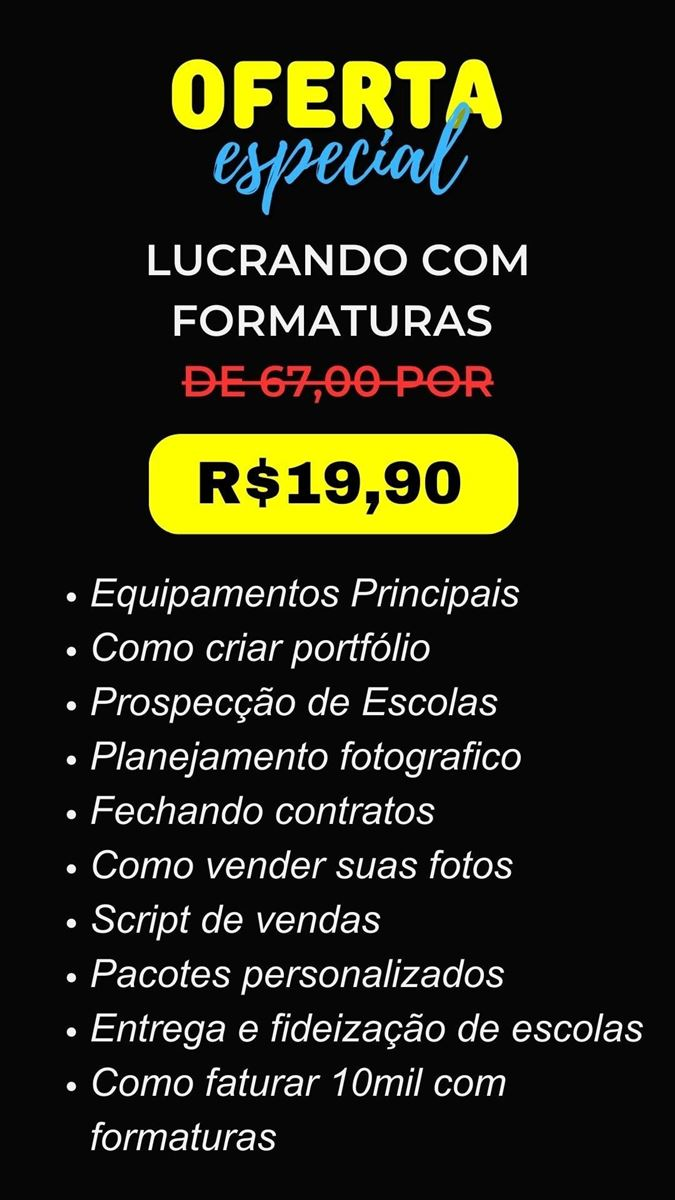
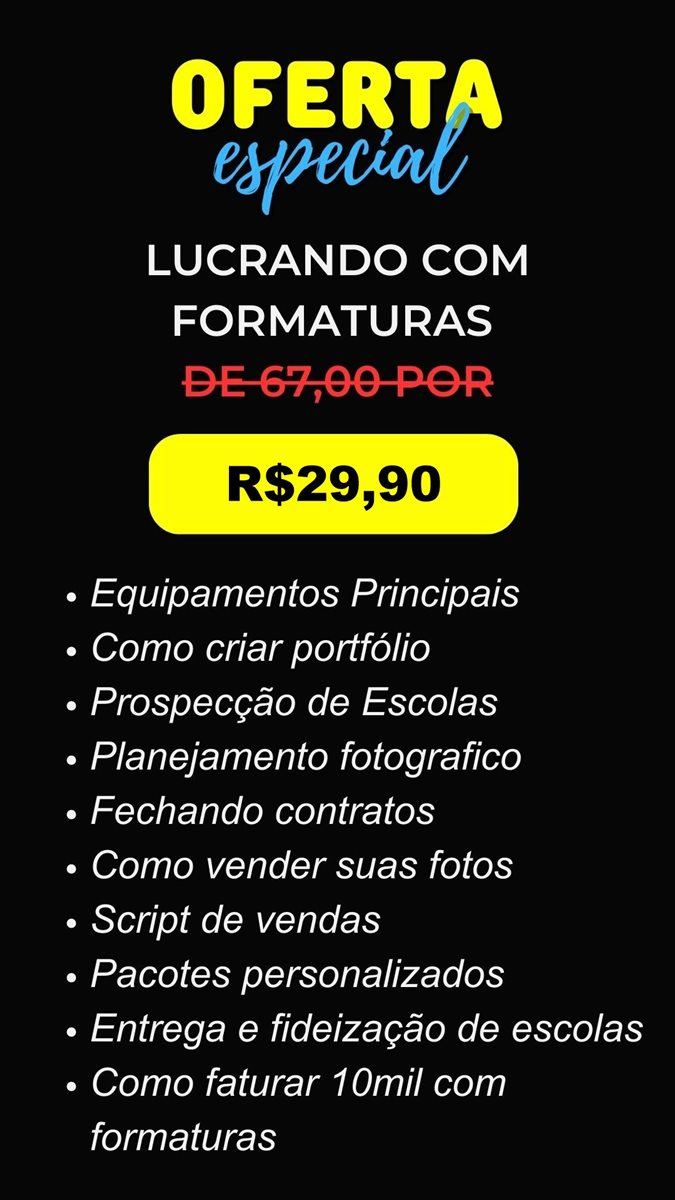
Preço R$29,90 (textos, FAQ e imagem da oferta) e botões do meio ancorando na oferta final

Changed region(s): [[0.28, 0.37, 0.6844, 0.4317]]

diff --git a/index.html b/index.html
@@ -15,7 +15,7 @@
 <link rel="preconnect" href="https://fonts.googleapis.com">
 <link rel="preconnect" href="https://fonts.gstatic.com" crossorigin>
 <link href="https://fonts.googleapis.com/css2?family=Poppins:ital,wght@0,400;0,500;0,600;0,700;0,800;1,400;1,600&display=swap" rel="stylesheet">
-<link rel="stylesheet" href="assets/style.css?v=3">
+<link rel="stylesheet" href="assets/style.css?v=4">
 </head>
 <body>
 
@@ -33,9 +33,9 @@
       <p class="hero-intro">Se você é fotógrafo e quer viver do seu trabalho, este é o melhor nicho da fotografia para você viver de fotografia e conquistar uma independêcia financeira</p>
       <div class="price">
         <span class="price-old">DE 67,00</span>
-        <span class="price-new"><small>Por apenas</small> R$19,90</span>
+        <span class="price-new"><small>Por apenas</small> R$29,90</span>
       </div>
-      <a class="btn" href="https://pay.hotmart.com/G95509688K?off=v1aixps5&amp;checkoutMode=10">COMPRAR AGORA</a>
+      <a class="btn" href="#oferta">COMPRAR AGORA</a>
       <p class="niche"><b>O Nicho Mais Lucrativo da Fotografia</b></p>
       <img class="rating" src="assets/img/selo.png" alt="Avaliação 4.9 de 5 estrelas" width="600" height="440">
     </div>
@@ -112,14 +112,14 @@
 <!-- ============ OFERTA + TIMER ============ -->
 <section class="section offer">
   <div class="wrap narrow center">
-    <h2 class="offer-title"><b>oferta especial por apenas R$19,90 somente hoje.</b></h2>
+    <h2 class="offer-title"><b>oferta especial por apenas R$29,90 somente hoje.</b></h2>
     <div class="timer" id="timer" aria-live="polite">
       <div><span data-t="d">00</span><small>Dias</small></div>
       <div><span data-t="h">00</span><small>Horas</small></div>
       <div><span data-t="m">00</span><small>Minutos</small></div>
       <div><span data-t="s">00</span><small>Segundos</small></div>
     </div>
-    <a class="btn btn--big" href="https://pay.hotmart.com/G95509688K?off=v1aixps5&amp;checkoutMode=10">EU QUERO ESSA OFERTA!</a>
+    <a class="btn btn--big" href="#oferta">EU QUERO ESSA OFERTA!</a>
   </div>
 </section>
 
@@ -143,9 +143,9 @@
     <div class="buy-box">
       <div class="price">
         <span class="price-old">DE 67,00</span>
-        <span class="price-new"><small>Por apenas</small> R$19,90</span>
+        <span class="price-new"><small>Por apenas</small> R$29,90</span>
       </div>
-      <a class="btn" href="https://pay.hotmart.com/G95509688K?off=v1aixps5&amp;checkoutMode=10">COMPRAR AGORA</a>
+      <a class="btn" href="#oferta">COMPRAR AGORA</a>
       <p class="niche"><b>O Nicho Mais Lucrativo da Fotografia:</b></p>
       <img class="rating" src="assets/img/selo.png" alt="Avaliação 4.9 de 5 estrelas" width="600" height="440" loading="lazy">
       <p class="buy-note">Descubra no e-book como <b>prospectar escolas e alunos</b>, e se tornar o fotógrafo mais procurado para fotografar formaturas na sua região.</p>
@@ -205,7 +205,7 @@
       <article class="b-card">
         <img src="assets/img/bonus-objecoes.jpg" alt="E-book Quebrando objeções" loading="lazy">
         <div>
-          <p class="b-lead">Ao adiquirir o E-book de <b>formatura por 19,90 </b>você ja recebe também de bônus meu E-book.</p>
+          <p class="b-lead">Ao adiquirir o E-book de <b>formatura por 29,90 </b>você ja recebe também de bônus meu E-book.</p>
           <p><b>Quebrando objeções</b> - Como fechar parcerias com escolas mais rápido, quebrando aquelas obejçoes chatas que as diretoras impedem o nosso trabalho.</p>
           <p>Este e-book é um material complementar, trazendo dicas valiosas para você <b>aplicar nas suas reuniões </b>de apresentação e superar os principais bloqueios ao fechar seus futuros trabalhos.</p>
         </div>
@@ -234,8 +234,8 @@
         <li><b>Têm uma câmera, mas ainda não conseguem muitos trabalhos </b>e querem transformar seu equipamento em uma fonte de renda constante.</li>
       </ul>
     </div>
-    <div class="who-offer">
-      <img src="assets/img/para-quem.jpg" alt="Oferta especial Lucrando com Formaturas: de 67,00 por R$19,90" loading="lazy">
+    <div class="who-offer" id="oferta">
+      <img src="assets/img/para-quem.jpg?v=2" alt="Oferta especial Lucrando com Formaturas: de 67,00 por R$29,90" loading="lazy">
       <img class="rating" src="assets/img/selo.png" alt="Avaliação 4.9 de 5 estrelas" width="600" height="440" loading="lazy">
       <a class="btn btn--big" href="https://pay.hotmart.com/G95509688K?off=v1aixps5&amp;checkoutMode=10">COMPRAR AGORA</a>
       <p class="secure"><svg viewBox="0 0 24 24" aria-hidden="true"><path d="M12 1 3 5v6c0 5.55 3.84 10.74 9 12 5.16-1.26 9-6.45 9-12V5l-9-4zm-2 16-4-4 1.41-1.41L10 14.17l6.59-6.59L18 9l-8 8z"/></svg><b>Compra 100% segura</b></p>
@@ -248,7 +248,7 @@
   <div class="wrap narrow">
     <h2 class="title"><b>PERGUNTAS <br>FREQUENTES.</b></h2>
     <div class="faq-list">
-      <details><summary>Qual é o valor do material?</summary><p>O guia está disponível pelo valor de R$19,90</p></details>
+      <details><summary>Qual é o valor do material?</summary><p>O guia está disponível pelo valor de R$29,90</p></details>
       <details><summary>Como vou receber o material após a compra?</summary><p>Após o pagamento, você receberá um link para download imediato do e-book em formato digital.</p></details>
       <details><summary>Posso acessar de qualquer dispositivo?</summary><p>Sim, o materail é compatível com dispositivos como smartphones, tablets e computadores, permitindo acesso flexível.</p></details>
       <details><summary>Não sei nada de fotografia. Esse guia é para mim?</summary><p>Sim, o guia é elaborado para iniciantes, apresentando desde conceitos básicos até estratégias avançadas para comprar sua primeira câmera.</p></details>

diff --git a/assets/style.css b/assets/style.css
@@ -213,7 +213,7 @@ p { margin: 0 0 1em; }
 /* ---------- Para quem ---------- */
 .who { background: var(--bg); }
 .who-grid { display: grid; gap: 36px; }
-.who-offer { display: flex; flex-direction: column; align-items: center; gap: 14px; }
+.who-offer { scroll-margin-top: 20px; display: flex; flex-direction: column; align-items: center; gap: 14px; }
 .who-offer > img:first-child { width: min(360px, 100%); border-radius: 22px; border: 1px solid var(--line); }
 .secure { display: flex; align-items: center; gap: 8px; margin: 0; color: var(--muted); }
 .secure svg { width: 20px; fill: #2fe07a; }
